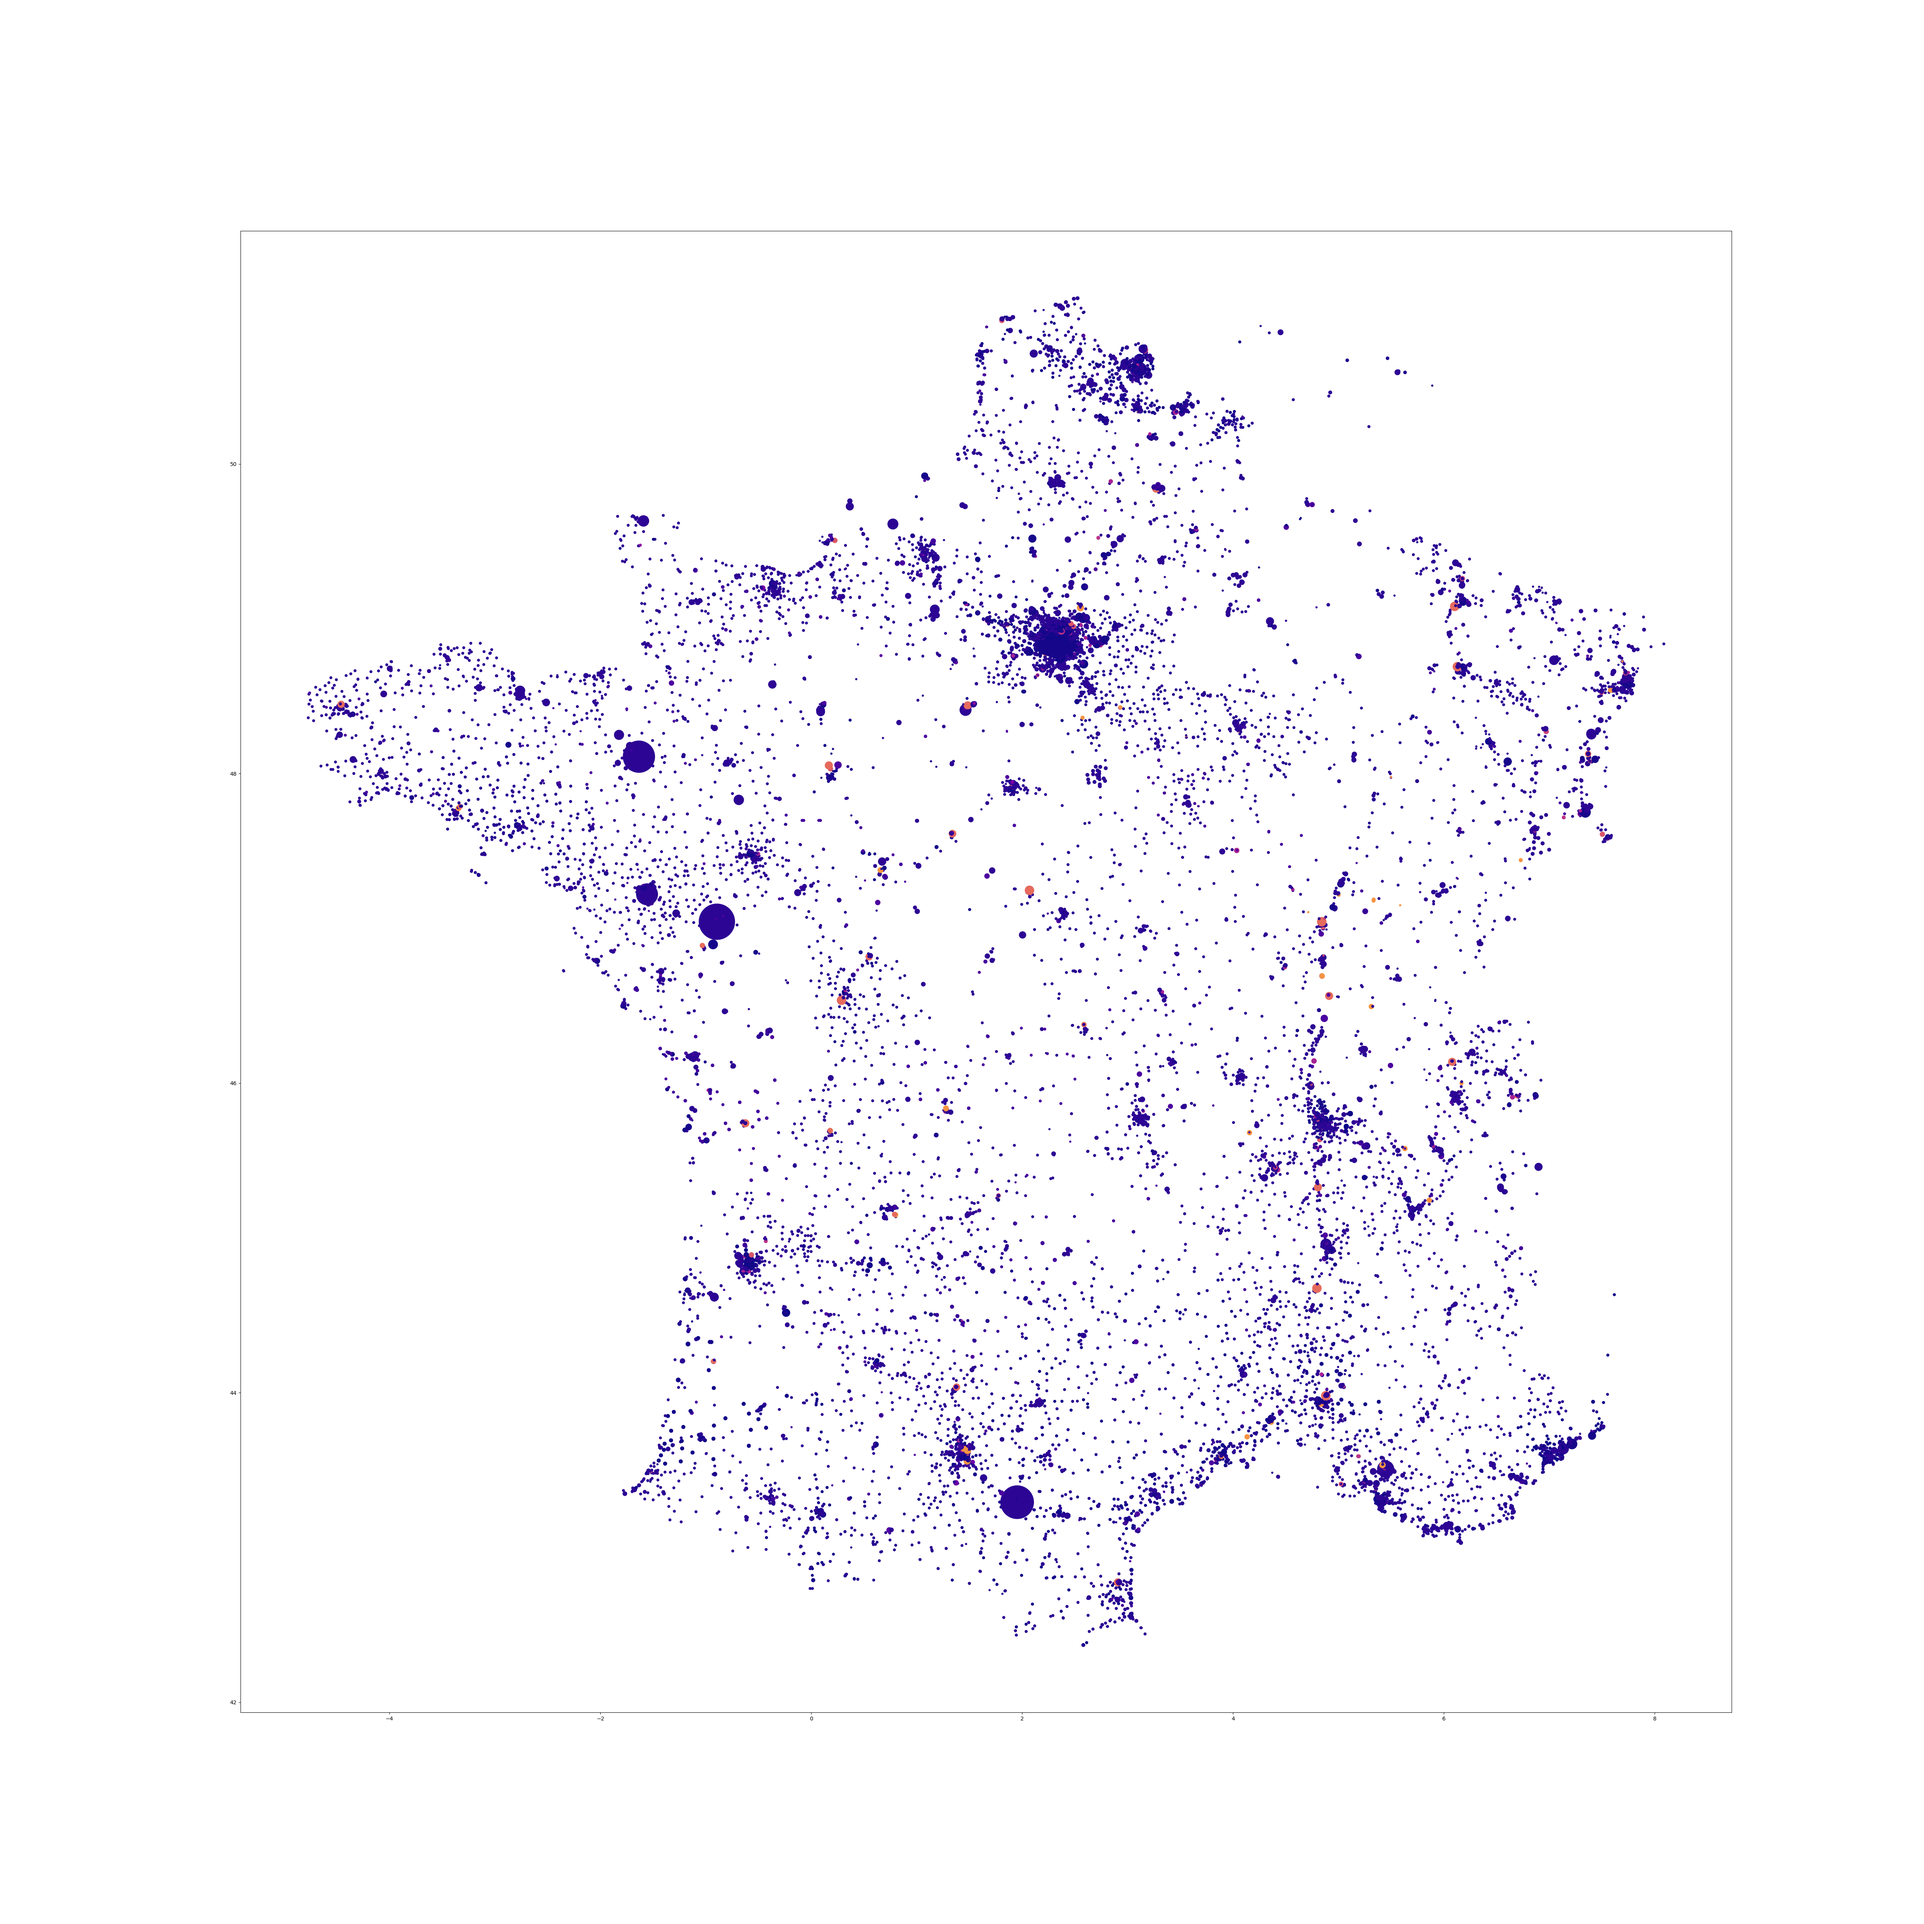
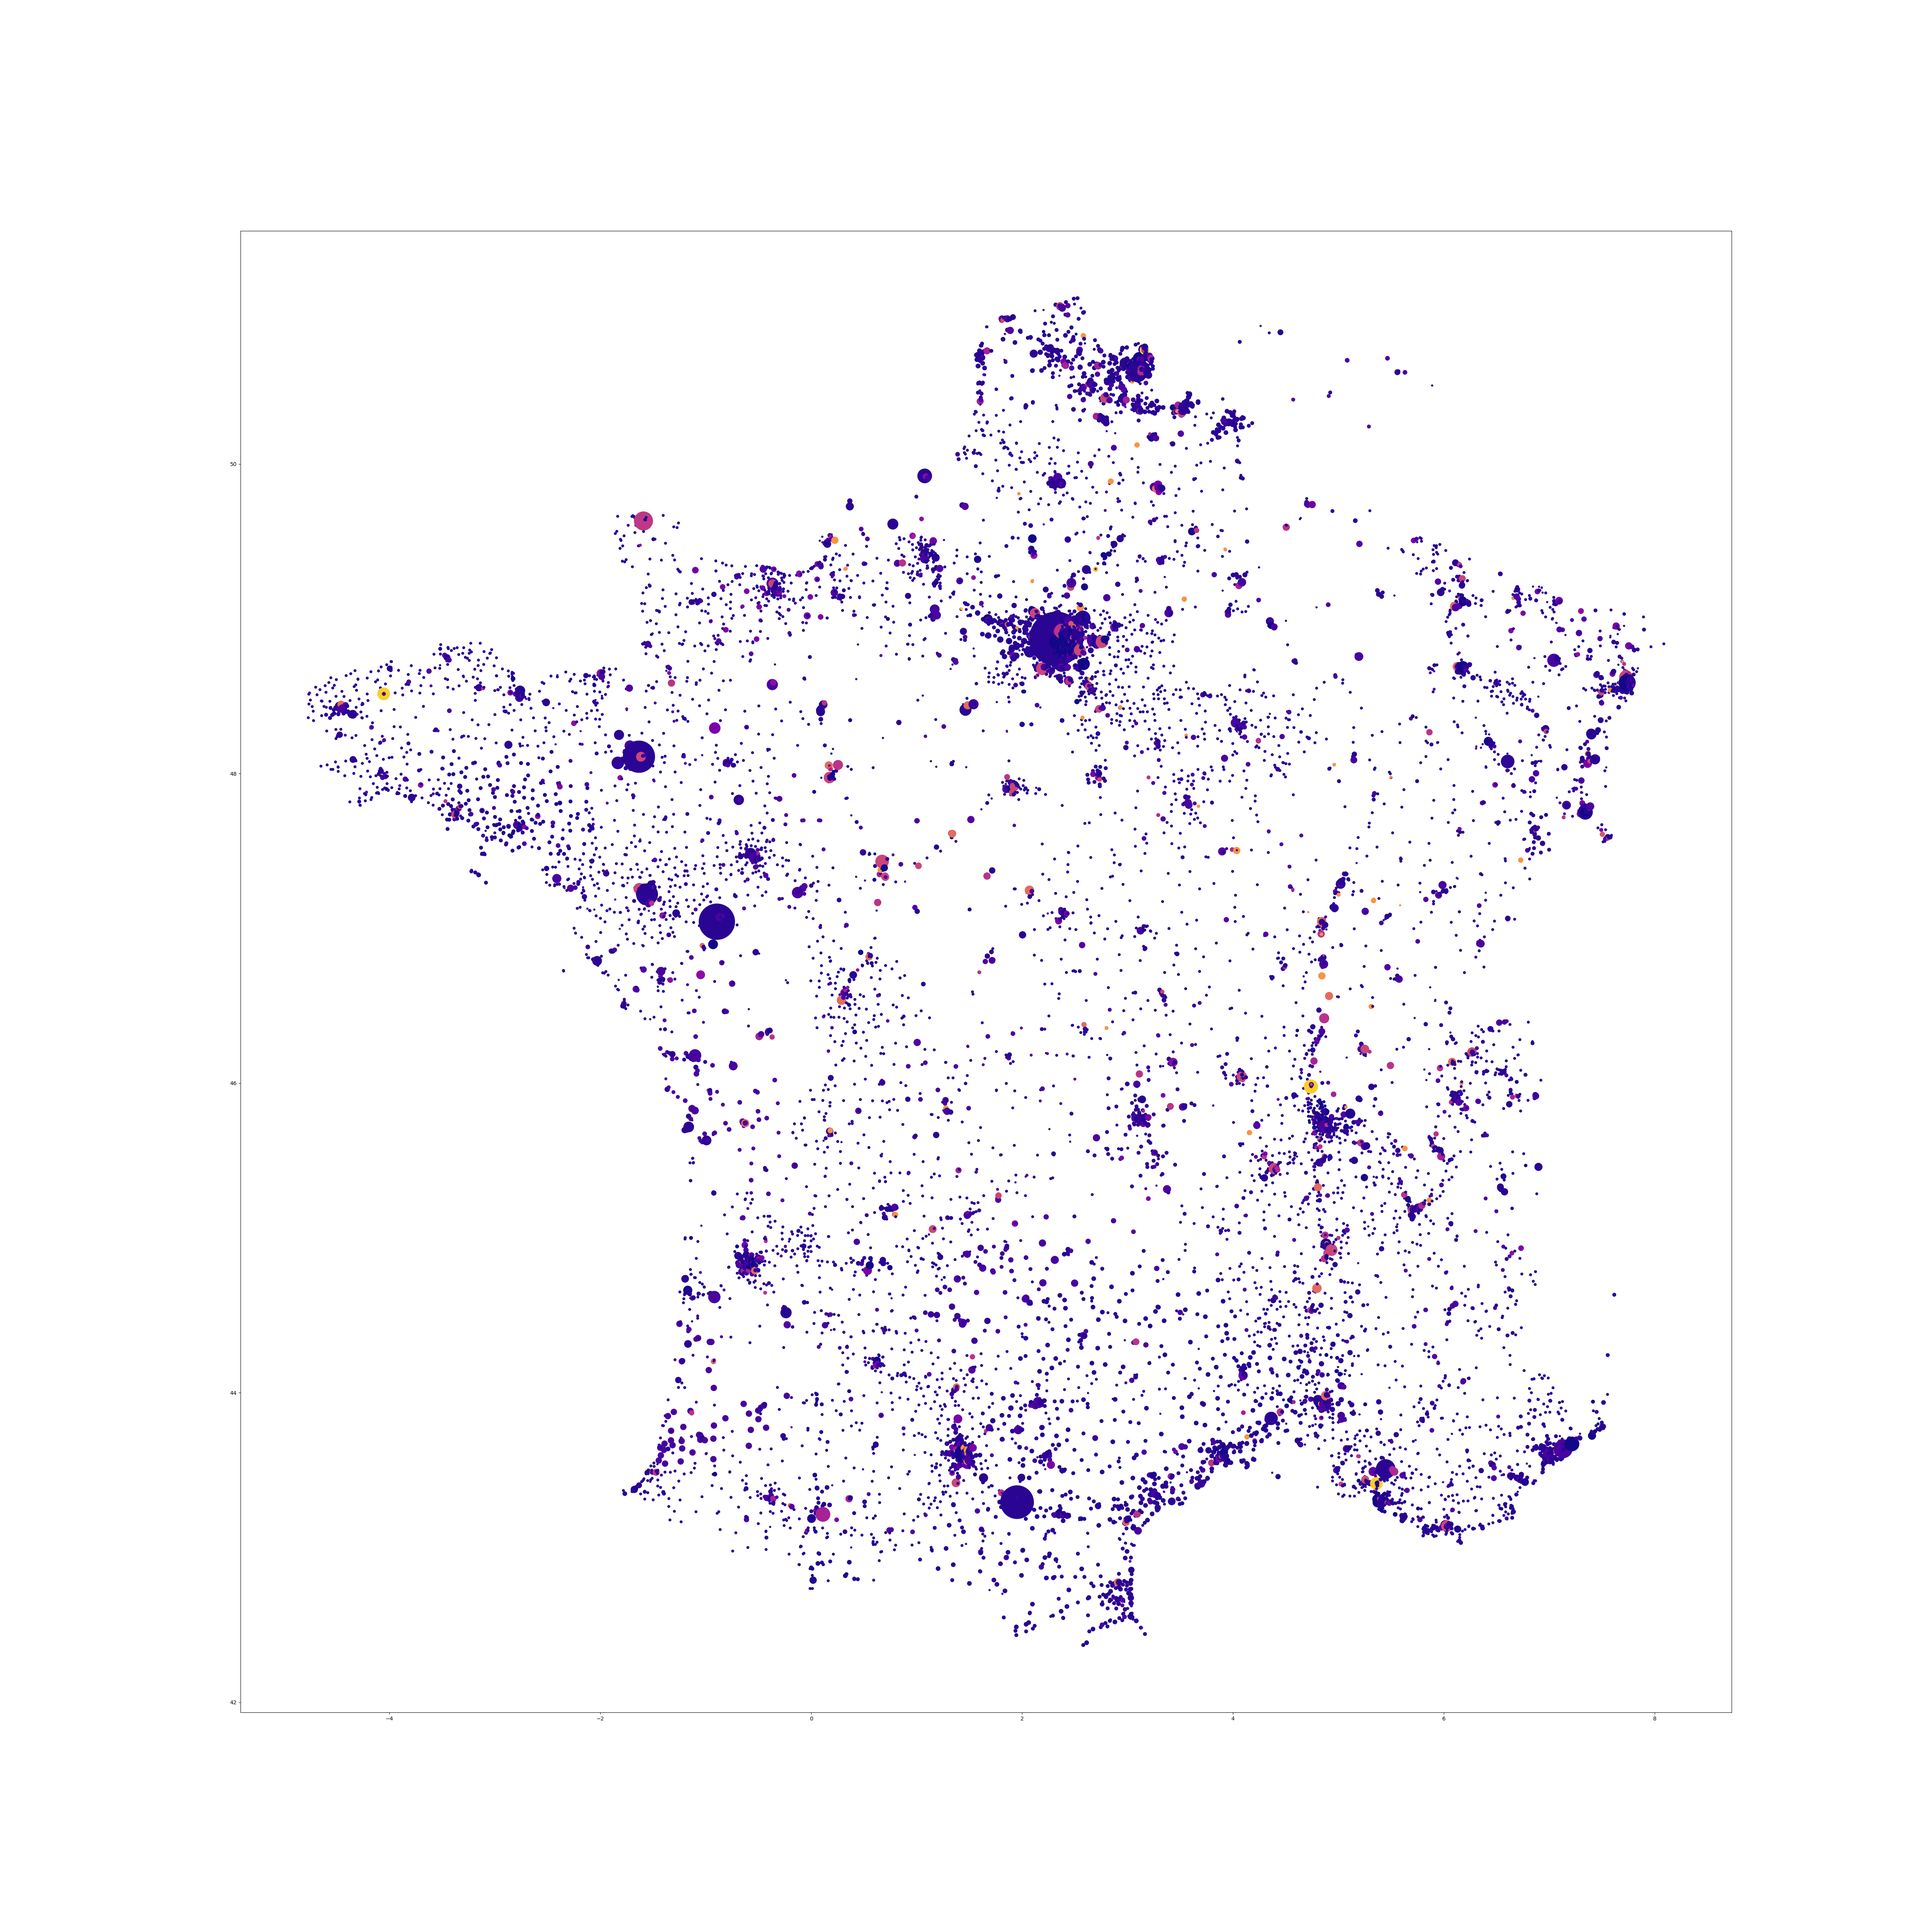
Creating a CSV_data_importer ============================ [+] data_importer.c [+] data_importer.h [~] csv_import.h [+] csv_import.c

diff --git a/src/utils/data_importer.c b/src/utils/data_importer.c
@@ -1,0 +1,36 @@
+#include "../include/data_importer.h"
+
+
+//import the data from a csv_importer struct to a borne_list struct
+void borne_data_importer(csv_import *file, borne_list *list_borne) {
+  int number_of_line = csv_import_getSize(file);
+  int length_of_line = line_getSize(*file->csv[0]);
+  int id = 0;
+  for (int i = 0; i < number_of_line; i++) {
+    line *current_line = *file->csv[i]; //get the current line number i
+
+    //create a new borne with data stored in csv_import(changing its type) and append it to the borne_list
+    borne_list_append(list_borne, borne_create(id, atoi(current_line->args[2]),
+                                               atoi(current_line->args[3]),
+                                               atof(current_line->args[0]),
+                                               atof(current_line->args[1])));
+    id++;
+  }
+}
+
+
+//import the data from a csv_importer struct to a car_list struct
+void car_data_importer(csv_import *file, car_list *list_car) {
+  int number_of_line = csv_import_getSize(file);
+  int length_of_line = line_getSize(*file->csv[0]);
+  int id = 0;
+  for (int i = 0; i < number_of_line; i++) {
+    line *current_line = *file->csv[i]; //get the current line number i
+
+    //create a new car with data stored in csv_import(changing its type) and append it to the car_list
+    car_list_append(list_car, car_create(current_line->args[0], id,
+                                   atoi(current_line->args[1]),
+                                   atof(current_line->args[2])));
+    id++;
+  }
+}

diff --git a/utils/borne_cleaner.py b/utils/borne_cleaner.py
@@ -5,7 +5,12 @@ import matplotlib.pyplot as plt
 def main():
   # Reads data, deletes duplicates and saves it
   bornes = pd.read_csv('data/borne_firststep.csv', sep=',').drop_duplicates()
-
+  
+  # Arrondi des coordonnées pour regrouper les bornes très proches (75m)
+  bornes = bornes.round({'consolidated_longitude': 3, 'consolidated_latitude': 3})
+  
+  # Regroupement des bornes par coordonnées en sommant le nombre de bornes et en prenant la puissance maximale
+  bornes = bornes.groupby(['consolidated_longitude', 'consolidated_latitude']).agg({'nbre_pdc': 'sum', 'puissance_nominale': 'max'}).reset_index()
   # Export to csv
   bornes.to_csv('data/borne_cleaned.csv', sep=',', index=False)
 

diff --git a/src/include/data_importer.h b/src/include/data_importer.h
@@ -1,0 +1,11 @@
+#include "csv_import.h"
+#include "borne_list.h"
+#include "car_list.h"
+
+#ifndef DATA_IMPORTER_H
+#define DATA_IMPORTER_H
+
+void borne_data_importer(csv_import *file, borne_list *list_borne);
+void car_data_importer(csv_import *file, car_list *list_car);
+
+#endif

diff --git a/src/include/csv_import.h b/src/include/csv_import.h
@@ -11,7 +11,7 @@
 
 struct line {
   int size;
-  char **args[];
+  char *args[];
 };
 
 typedef struct line line;
